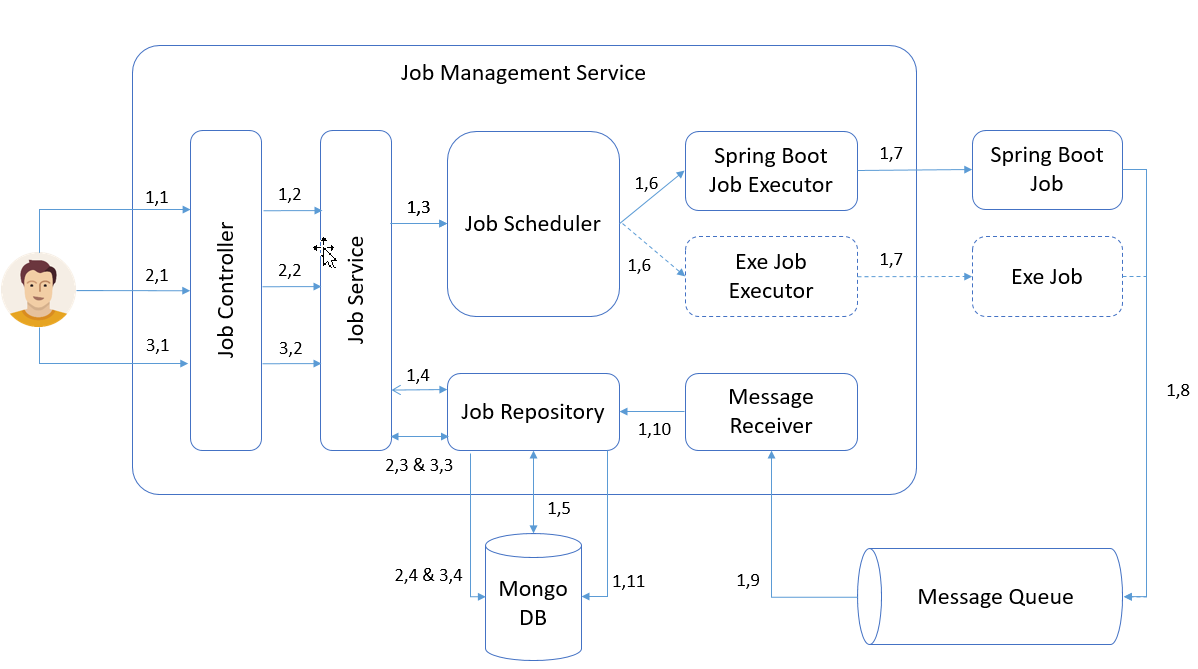
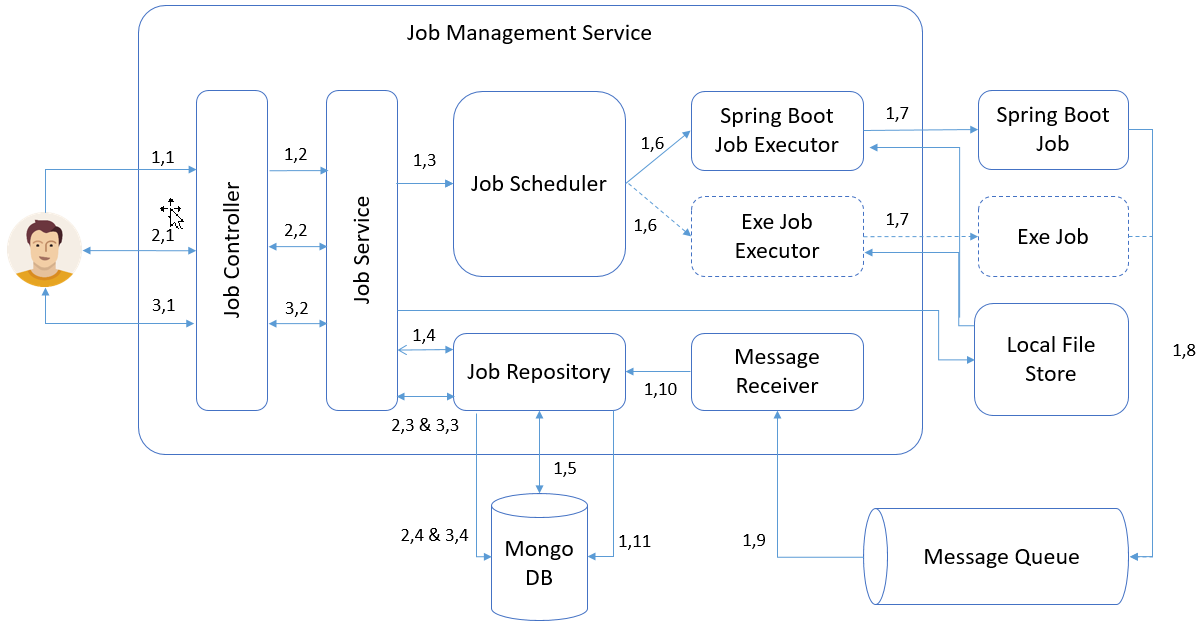
updated diagram

diff --git a/Readme.md b/Readme.md
@@ -52,7 +52,69 @@ The project consists of following modules:
     * **Run It** : *java -jar target\jm-service-0.0.1-SNAPSHOT.jar*
     * **Test Via API Swagger** http://localhost:8080/api/swagger-ui.html
 
-### Dev Operations
+### Testing
+
+**API Usage**
+ * Job Submission 
+     * Request URL : http://localhost:8080/api/job
+     * Request Body:
+        ```
+        form : {job}.jar
+        jobType : SPRING_BOOT_JAR
+        executionType : IMMEDIATE
+        parameters : 'optional, space seperated parameter for job'
+        environmentString : 'optional, space seperated environment variable for job'
+        priority : 'optional, int value representing job priority (1-10)' 
+        schedule : 'optional, schedule represented in 'yyyy-MM-dd HH:mm:ss' format' 
+        ```
+     * Response Header:
+        ```
+        Location : http://localhost:8080/api/job/{jobId} 
+        ```
+     * Response Status:
+        ```
+        201
+        ```
+ * Get Job By Id
+     * Request URL : http://localhost:8080/api/job/{jobId} 
+     * Response Body:
+        ```
+        {
+          "id": {jobId},
+          "type": "SPRING_BOOT_JAR",
+          "status": "{QUEUED | FAILED | SUCCESS}",
+          "fileLocation": ".store/{jobId}.jar",
+          "schedule": {
+            "executionType": "IMMEDIATE"
+          }
+        }
+        ```
+     * Response Status:
+        ```
+        200
+        ```
+  * Get All Jobs 
+      * Request URL : http://localhost:8080/api/job/ 
+      * Response Body:
+         ```
+         [
+             {
+               "id": {jobId},
+               "type": "SPRING_BOOT_JAR",
+               "status": "{QUEUED | FAILED | SUCCESS}",
+               "fileLocation": ".store/{jobId}.jar",
+               "schedule": {
+                 "executionType": "IMMEDIATE"
+               }
+             }
+             ...
+         ]
+         ```
+      * Response Status:
+         ```
+         200
+         ```                 
+### Development Operations
 [Job Management Service Travis CI Build](https://travis-ci.org/CaseStudy-JobManagement/jm-service)
 : Have integrated code repo with Travis CI which builds the app does following :
 
